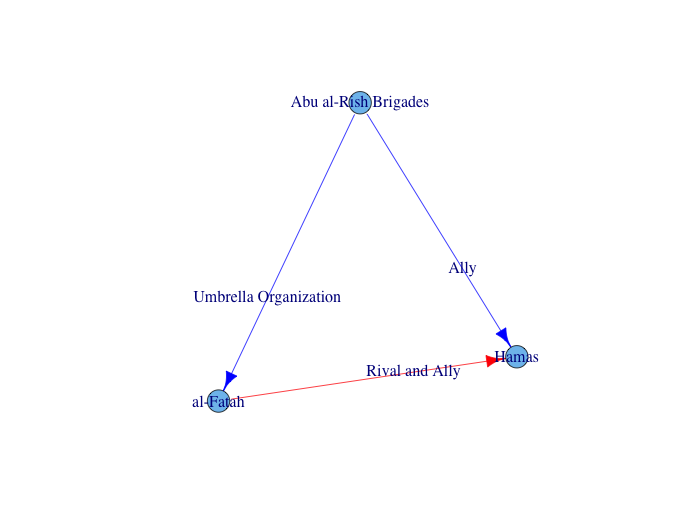
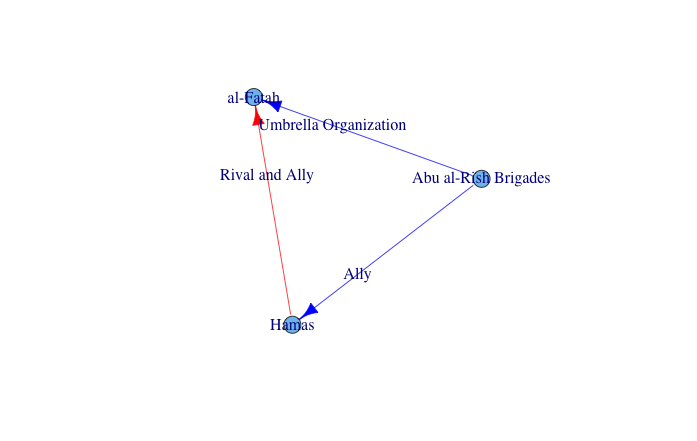
same plot repeated problem

diff --git a/blog/Social Balance in Terrorist Networks.html b/blog/Social Balance in Terrorist Networks.html
@@ -250,8 +250,8 @@ SocImbal$color &lt;- ifelse(SocImbal$conn == 1, 'blue', 'red')</code></pre>
 length(Imbal)</code></pre>
 <pre><code>## [1] 339</code></pre>
 <pre class="r"><code>for (i in Imbal[1:4]) {
-  x &lt;- SocImbal[SocImbal$tri == 1, c(2, 3, 4, 7)]
-  y &lt;- graph.data.frame(SocImbal[1:3, c(2, 3)])
+  x &lt;- SocImbal[SocImbal$tri == i, c(2, 3, 4, 7)]
+  y &lt;- graph.data.frame(x[, 1:2])
   E(y)$label &lt;- x$type
   plot(y, edge.color = x$color)
 }</code></pre>
